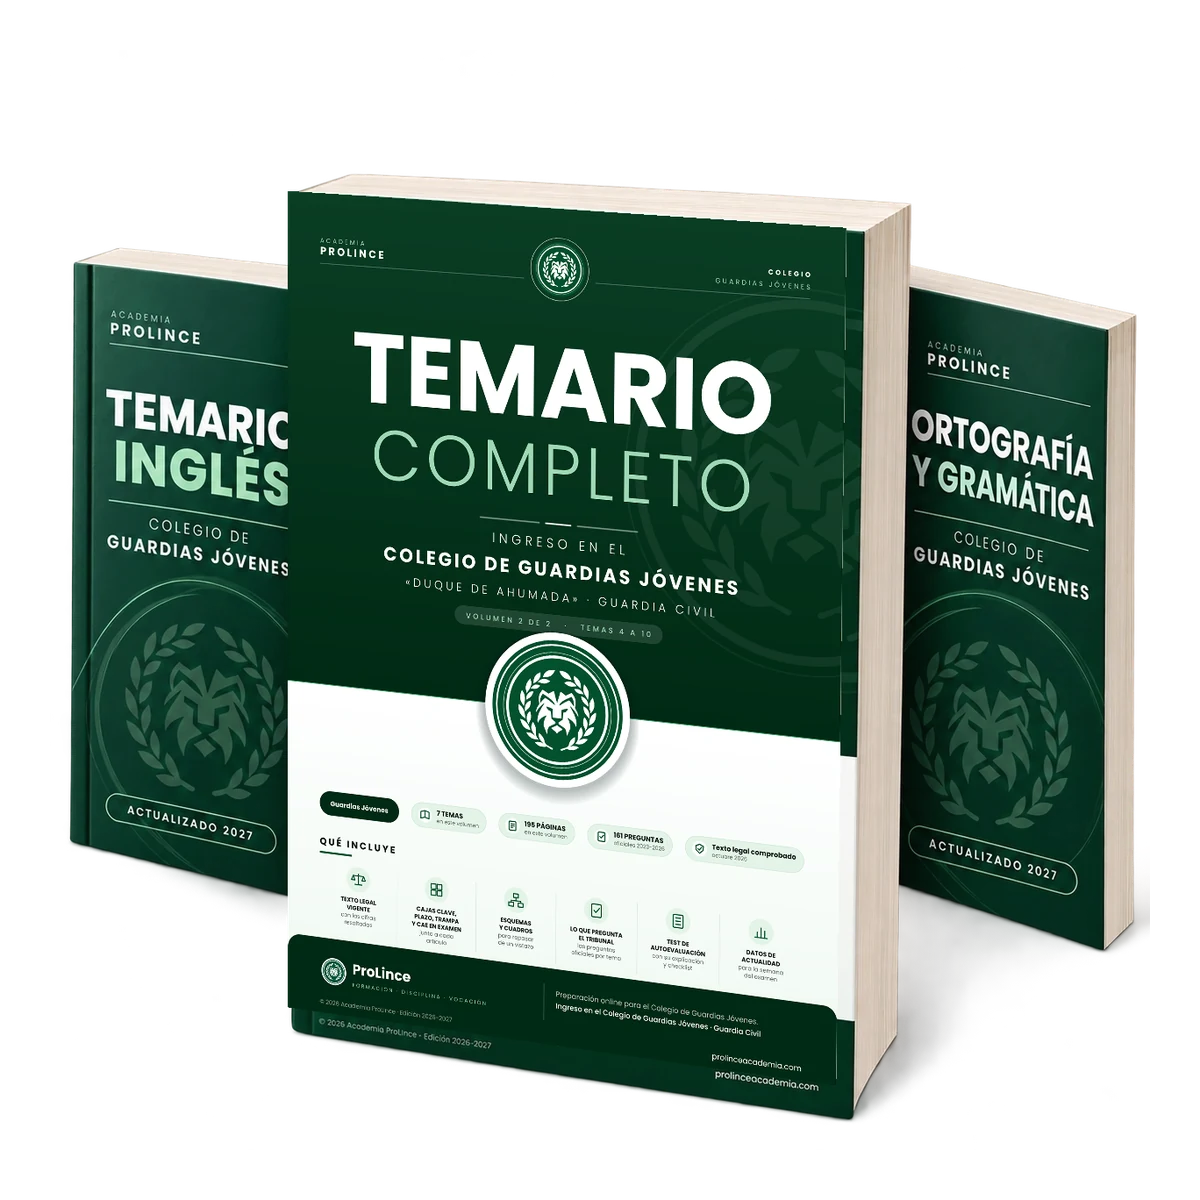
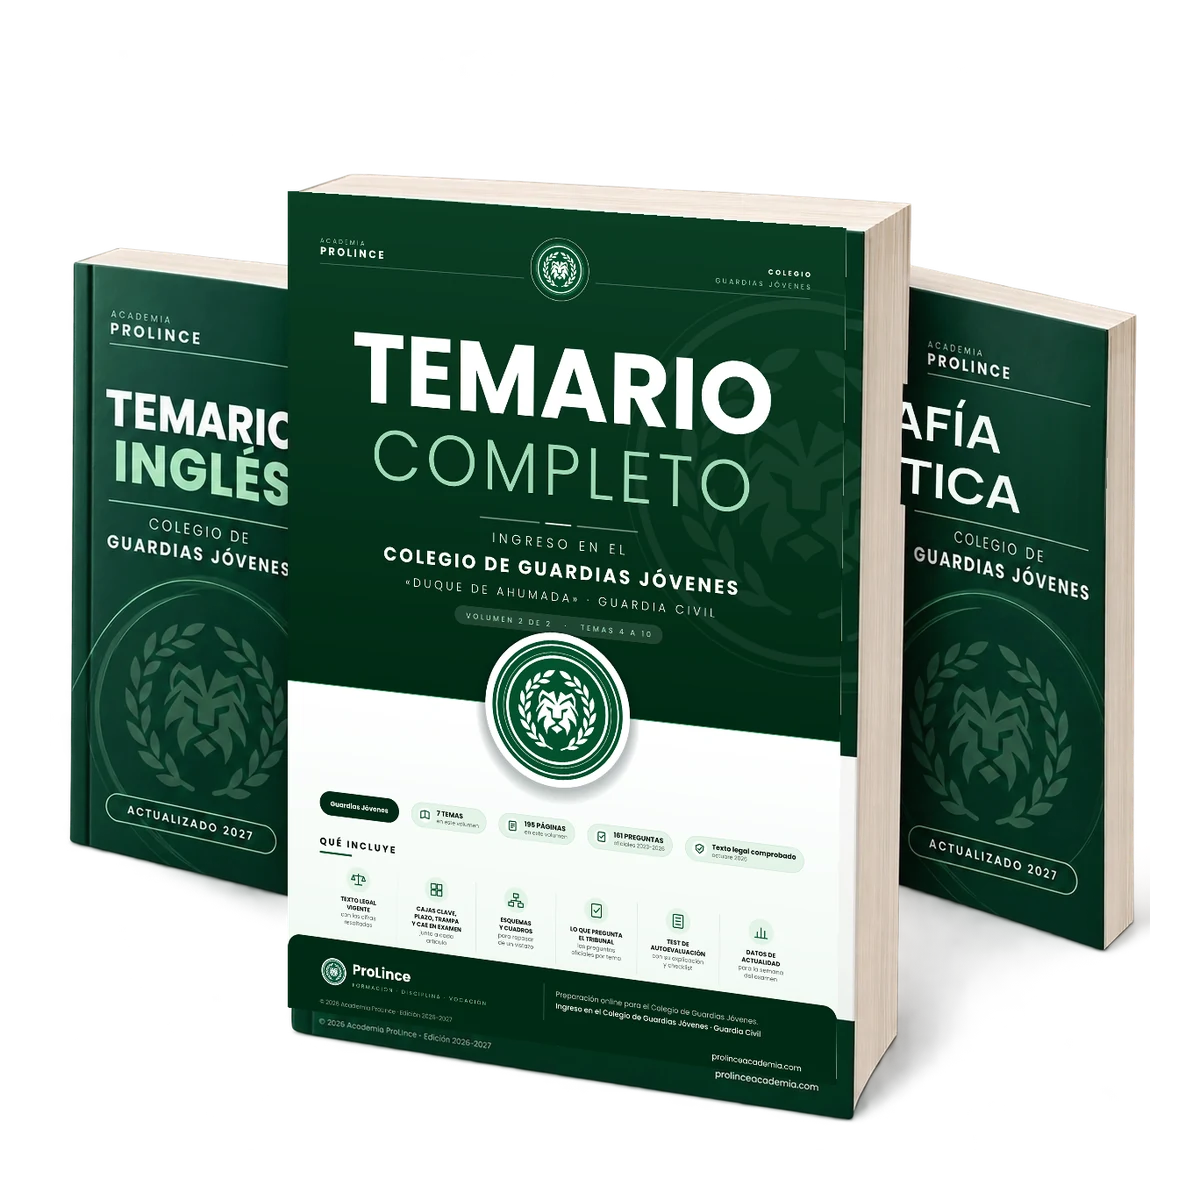
Corrige las proporciones del título de ortografía en ambos packs

Changed region(s): [[0.74, 0.3083, 0.925, 0.4317]]

diff --git a/scripts/recursos/temarios/README.md b/scripts/recursos/temarios/README.md
@@ -39,3 +39,11 @@ armas, marcas ajenas, precios, promesas o textos fuera de las cubiertas.
 Las bases completas generadas son una referencia de escena: la preparación final
 sustituye siempre su cara principal por la portada original para conservar todos
 sus detalles.
+
+## Corrección del título de ortografía
+
+El título del libro trasero de ortografía se ha compuesto con Manrope 700,
+sin comprimir las letras para encajar el título entero en la franja visible.
+«ORTOGRAFÍA» y «Y GRAMÁTICA» ocupan la cubierta completa; el libro principal
+oculta de forma natural el comienzo de ambas líneas. Se conserva la perspectiva
+suave de la cubierta. Las dos bases WebP incluyen esta corrección.
